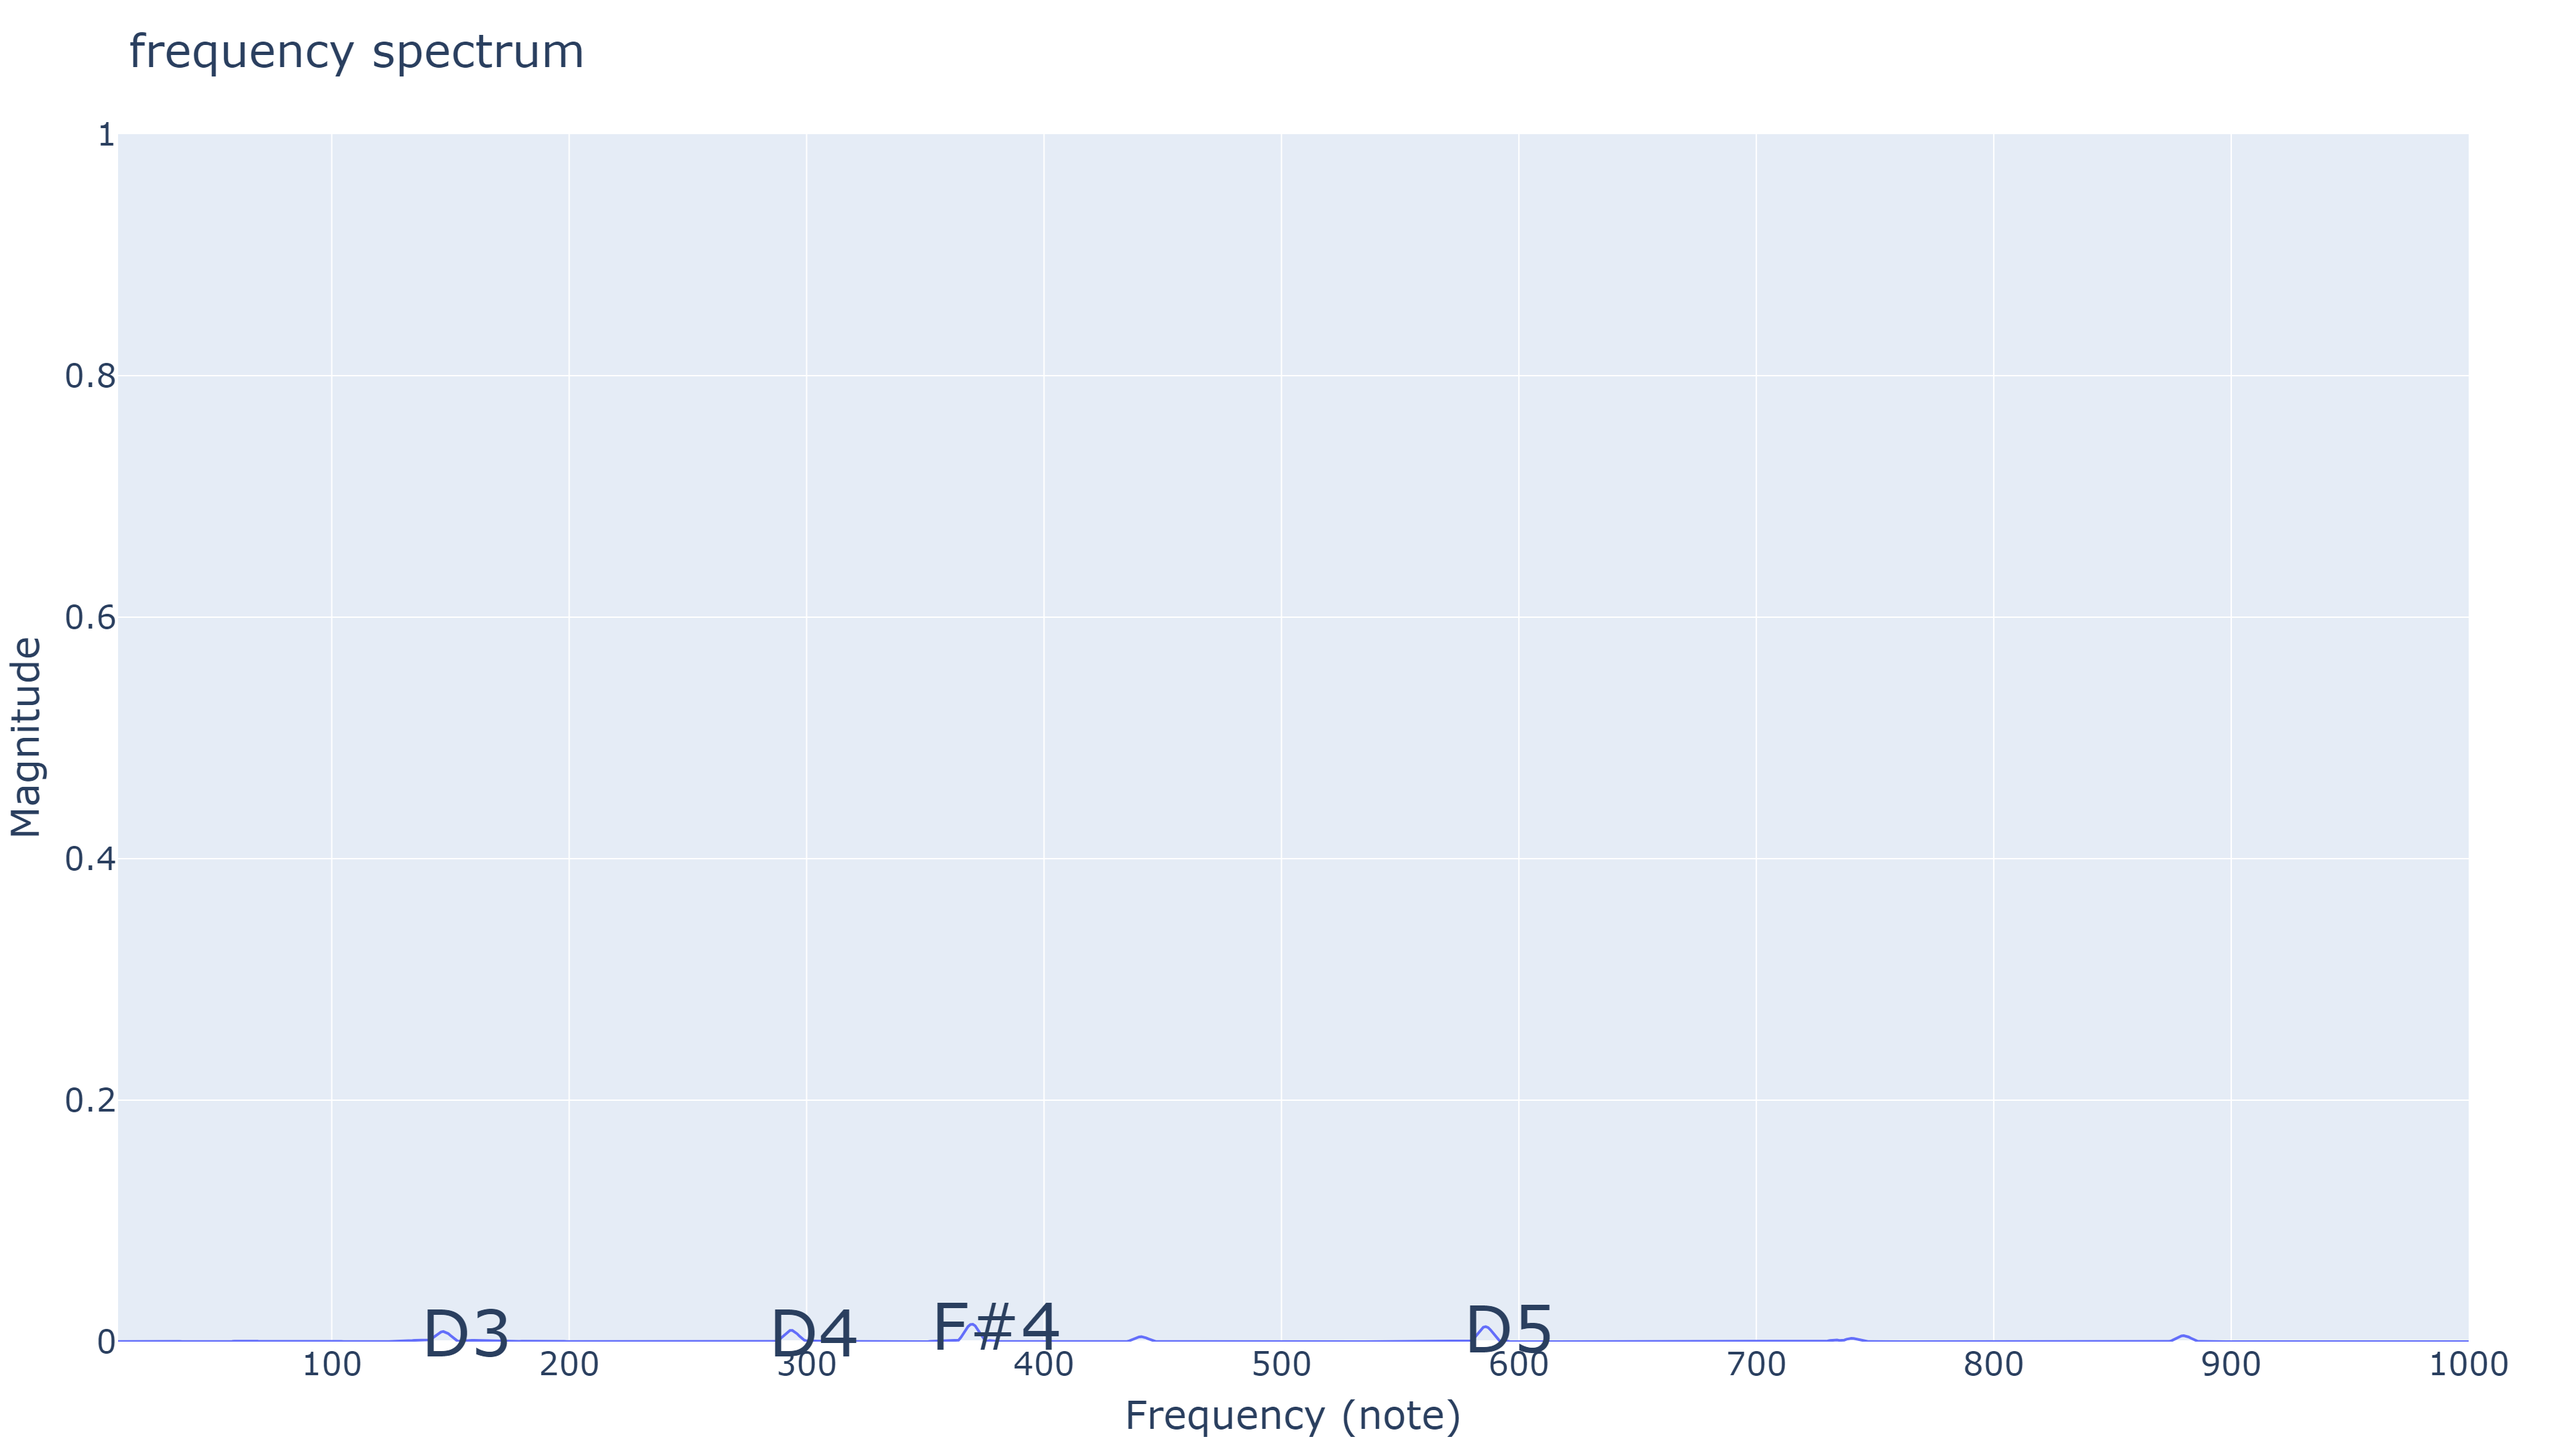
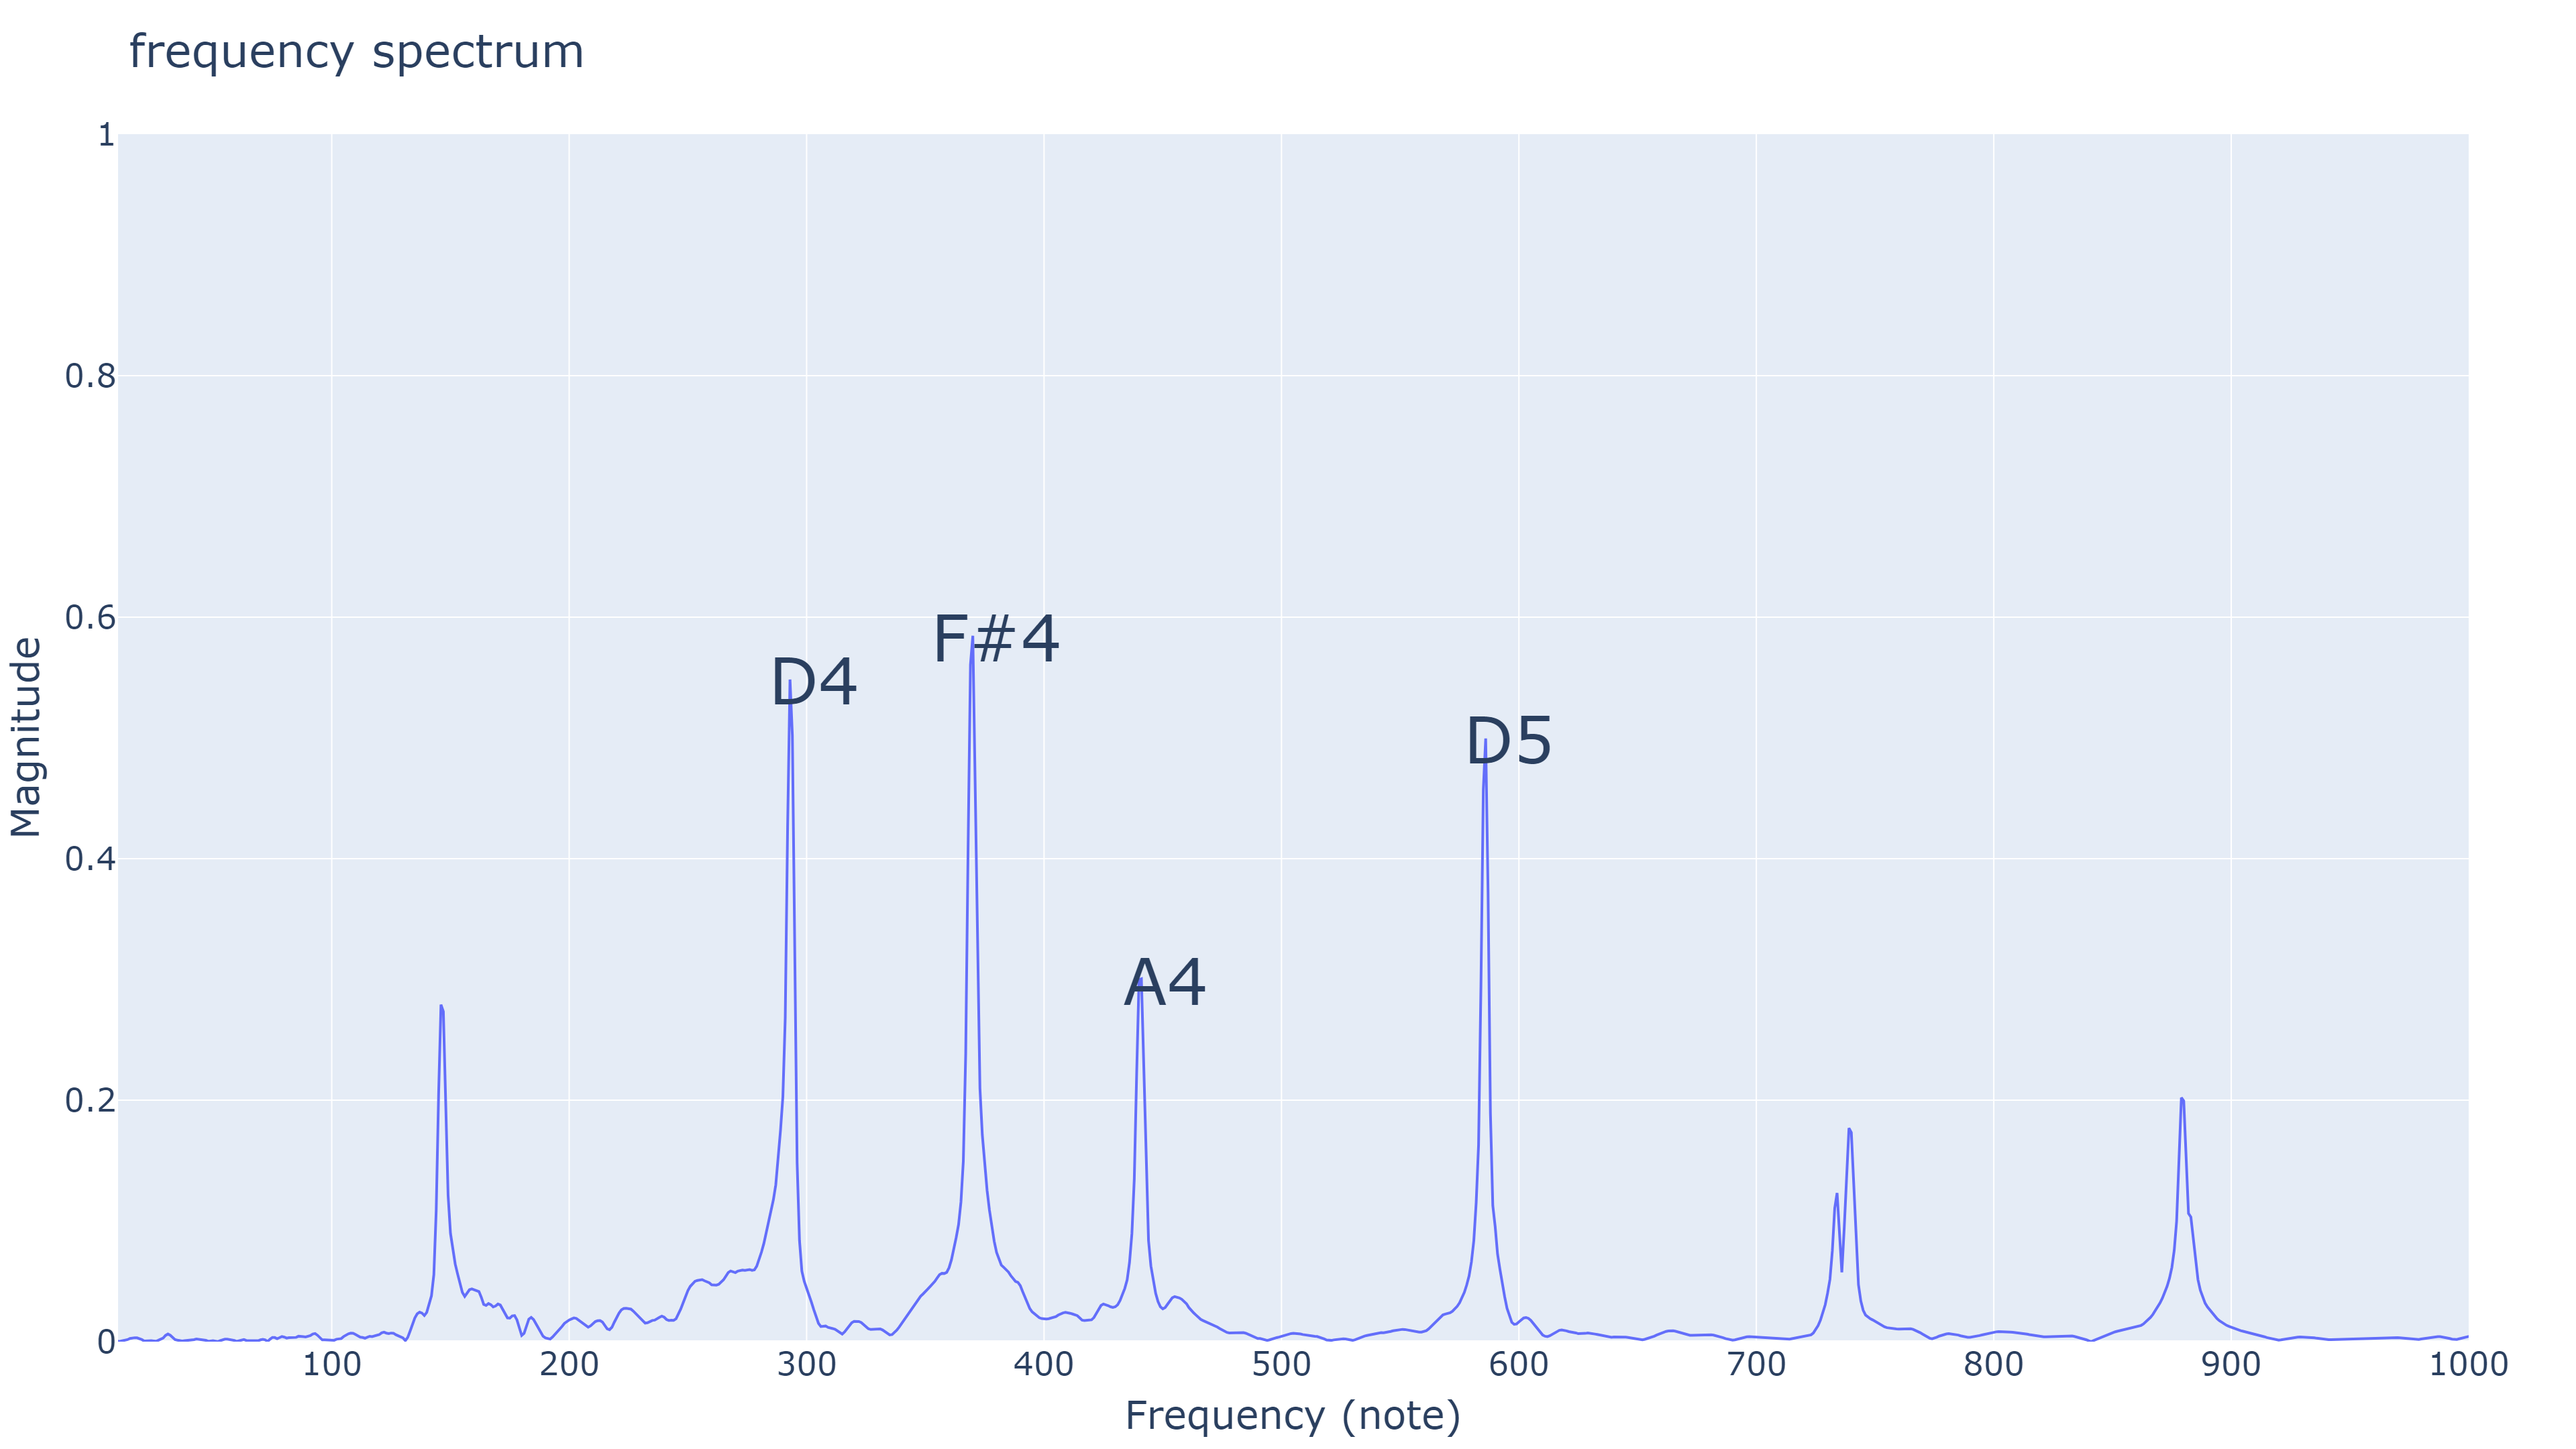
Progress update

diff --git a/midi generator.py b/midi generator.py
@@ -1,22 +1,23 @@
 import pickle
 from mido import MetaMessage, Message, MidiFile, MidiTrack
 from pprint import pprint
+import numpy as np
 
 # Music21
 
 # BPM = 84
-BPM = 76
-FPS = 32
+tempo = 500000
+FPS = 60
 
-quarter_note_length = 60 / BPM
-sixteenth_note_length = quarter_note_length / 4
+# quarter_note_length = 60 / BPM
+# sixteenth_note_length = quarter_note_length / 4
 
-frame_length = 1 / FPS
+frame_length = 1000 // FPS
 
 ticks_per_quarter_note = 480
 
-ticks_per_frame = int((ticks_per_quarter_note * BPM) // (60 * FPS))
-print(f'ticks per frame: {ticks_per_frame}\n')
+# ticks_per_frame = int((ticks_per_quarter_note * BPM) // (60 * FPS))
+# print(f'ticks per frame: {ticks_per_frame}\n')
 
 # Odczytaj tablicę z pliku
 with open('big_notes_result.pickle', 'rb') as file:
@@ -35,12 +36,11 @@ pprint(len(notes_names_table))
 
 
 def is_note_stable(note_name, counter: int):
-    if len(notes_names_table) - counter < 5:
+    if len(notes_names_table) - counter < 4:
         return True
     if note_name not in notes_names_table[counter + 1] \
             or note_name not in notes_names_table[counter + 2] \
-            or note_name not in notes_names_table[counter + 3] \
-            or note_name not in notes_names_table[counter + 4]:
+            or note_name not in notes_names_table[counter + 3]:
         notes_names_table[counter].remove(note_name)
         return False
     return True
@@ -77,6 +77,7 @@ mid.tracks.append(track0)
 # track0.append(MetaMessage('track_name', name='test', time=0))
 # track0.append(MetaMessage('time_signature', numerator=4,
 #                               denominator=4, clocks_per_click=24, notated_32nd_notes_per_beat=8, time=0))
+track0.append(MetaMessage('set_tempo', tempo=tempo))
 
 mid.ticks_per_beat = ticks_per_quarter_note
 
@@ -89,29 +90,51 @@ track1.append(Message('program_change', program=0))
 current_notes = []
 previous_notes = []
 current_time = 0
-current_time_offset = 0
 counter = 0
+
+active_notes = {}
 
 for notes in notes_names_table:
     print(f'Time: {current_time}', end="")
     for note in notes:
         if note not in previous_notes:
             if is_note_stable(note, counter):
-                track1.append(Message('note_on', note=int(note_to_midi[note]), velocity=64, time=current_time_offset))
+                track1.append(Message('note_on',
+                                      note=int(note_to_midi[note]),
+                                      velocity=64,
+                                      time=int(np.floor(current_time * tempo / 1000000))))
                 current_notes.append(note)
+                active_notes[note] = current_time
                 print(f', Note {note} activated', end='\t')
+            # track1.append(Message('note_on',
+            #                       note=int(note_to_midi[note]),
+            #                       velocity=64,
+            #                       time=int(current_time * tempo // 1000000)))
+            # current_notes.append(note)
+            # active_notes[note] = current_time
+            # print(f', Note {note} activated', end='\t')
         else:
             current_notes.append(note)
     # print(f"\ncounter: {counter}, current notes: {current_notes}, previous notes: {previous_notes}")
     for note in previous_notes:
         if note not in current_notes:
-            track1.append(Message('note_off', note=int(note_to_midi[note]), velocity=64, time=current_time_offset))
+            track1.append(Message('note_off',
+                                  note=int(note_to_midi[note]),
+                                  velocity=64,
+                                  time=int(np.ceil((current_time - active_notes[note]) * tempo / 1000000))))
+            del active_notes[note]
             print(f', Note {note} deactivated', end='\t')
-    current_time_offset += ticks_per_frame
+    current_time += frame_length
     previous_notes = current_notes
     current_notes = []
     counter += 1
     print("\n")
+
+for note in active_notes:
+    track1.append(Message('note_off',
+                          note=int(note_to_midi[note]),
+                          velocity=64,
+                          time=int((current_time - active_notes[note]) * tempo // 1000000)))
 
 # pprint(mid)
 mid.save('result.mid')

diff --git a/fft test.py b/fft test.py
@@ -12,15 +12,15 @@ import pickle
 content_dir = os.path.join(os.getcwd(), "content")
 
 # Usunięcie katalogu "content" i jego zawartości
-# shutil.rmtree(content_dir, ignore_errors=True)
+shutil.rmtree(content_dir, ignore_errors=True)
 
 # Utworzenie nowego katalogu "content"
-# os.makedirs(content_dir, exist_ok=True)
+os.makedirs(content_dir, exist_ok=True)
 
 AUDIO_FILE = "sample 4 - piano (short sample).wav"
 
 # Configuration
-FPS = 32
+FPS = 60
 FFT_WINDOW_SECONDS = 1  # how many seconds of audio make up an FFT window
 
 # Note range to display
@@ -163,9 +163,9 @@ with ThreadPoolExecutor(max_workers=8) as executor:
     results = list(tqdm.tqdm(executor.map(process_frame, range(FRAME_COUNT)), total=FRAME_COUNT))
 
 # Save the frames
-# for frame_number, (fft, s) in enumerate(results):
-#     fig = plot_fft(fft, xf, fs, s, RESOLUTION)
-#     fig.write_image(os.path.join(content_dir, f"frame{frame_number}.png"), scale=2)
+for frame_number, (fft, s) in enumerate(results):
+    fig = plot_fft(fft, xf, fs, s, RESOLUTION)
+    fig.write_image(os.path.join(content_dir, f"frame{frame_number}.png"), scale=2)
 
 # Zapisywanie tablicy big_notes_result przy użyciu pickle
 with open('big_notes_result.pickle', 'wb') as f:

diff --git a/midi reader.py b/midi reader.py
@@ -16,8 +16,8 @@ def print_midi_file_contents(midi_file_path):
 
 
 # Ścieżka do pliku MIDI
-# midi_file_path = "canon in D - test.mid"
-midi_file_path = "result.mid"
+midi_file_path = "canon in D - test.mid"
+# midi_file_path = "result.mid"
 # midi_file_path = "oneNote.mid"
 # midi_file_path = "twoNotes.mid"
 # midi_file_path = "doubleNote.mid"
